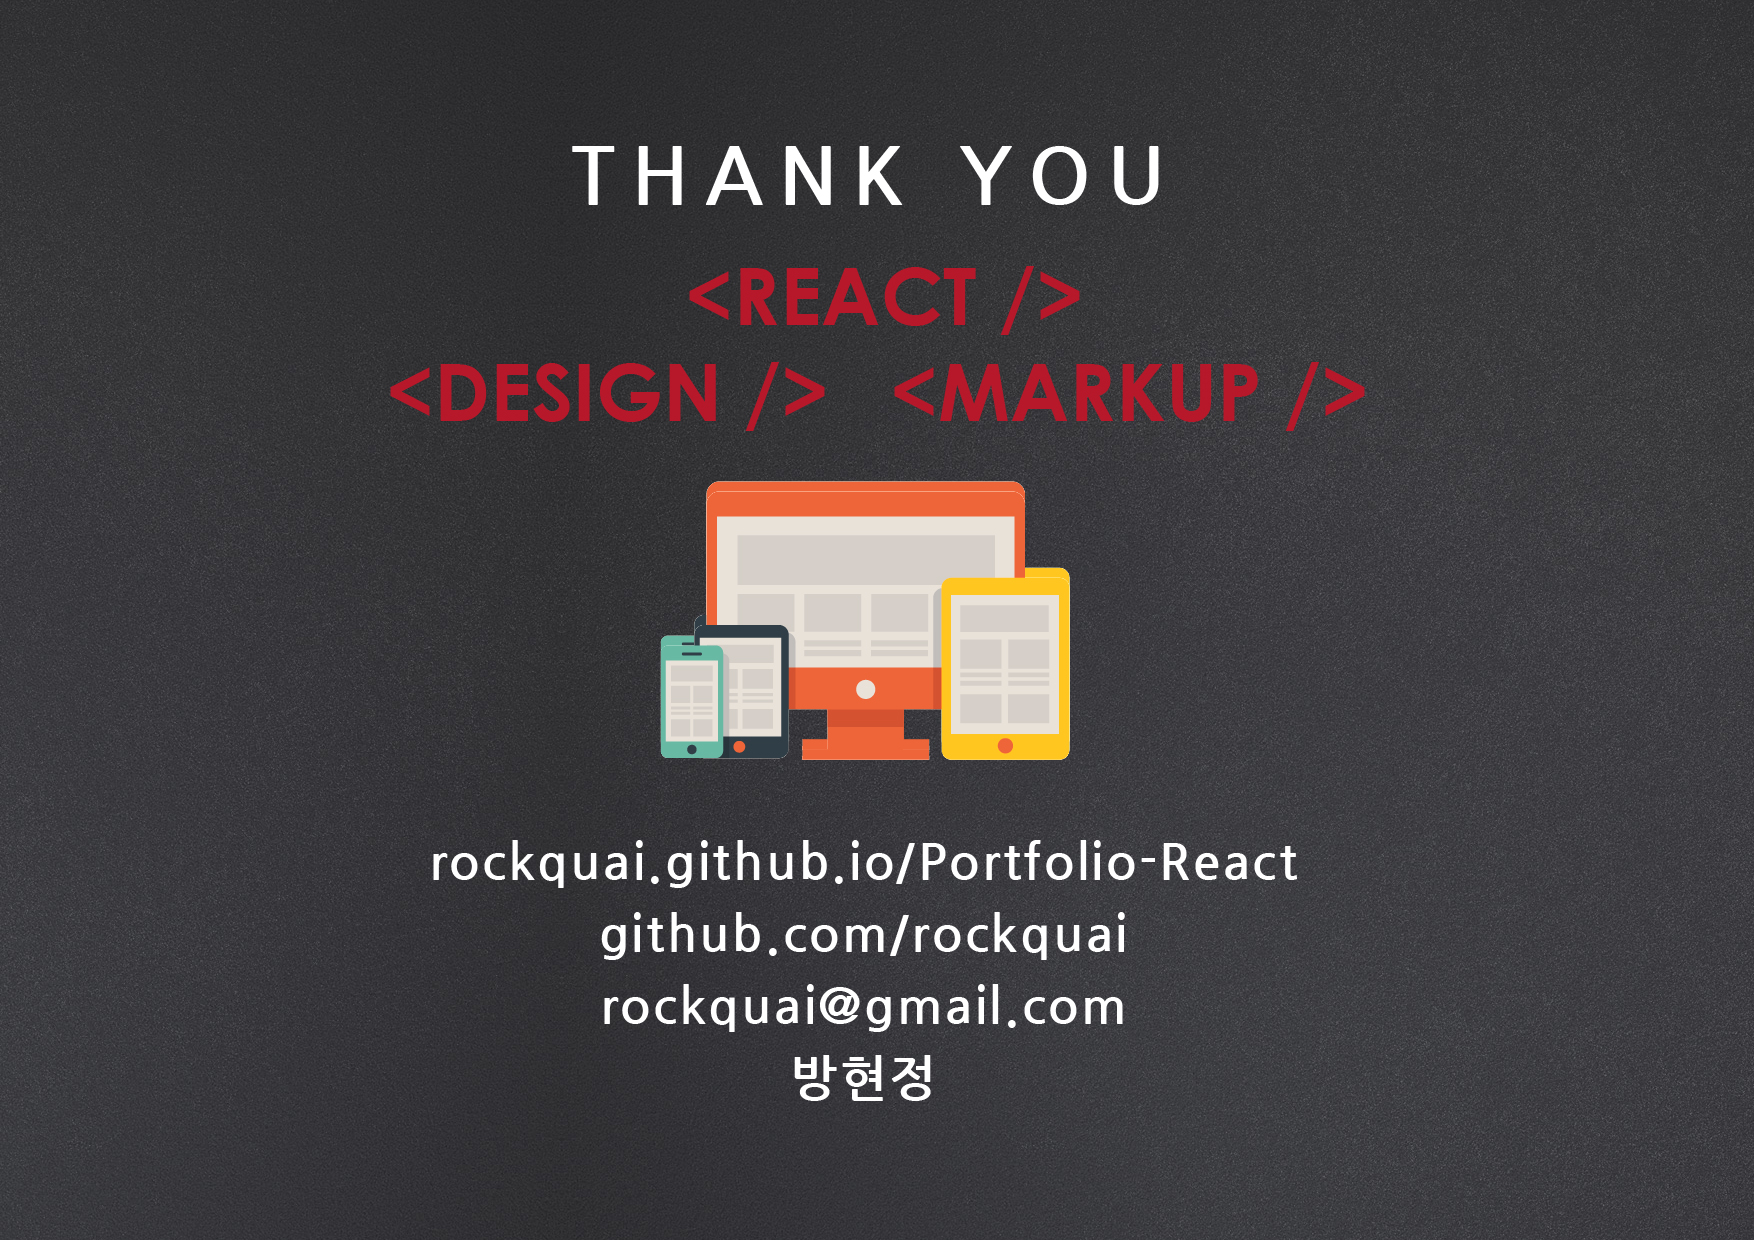
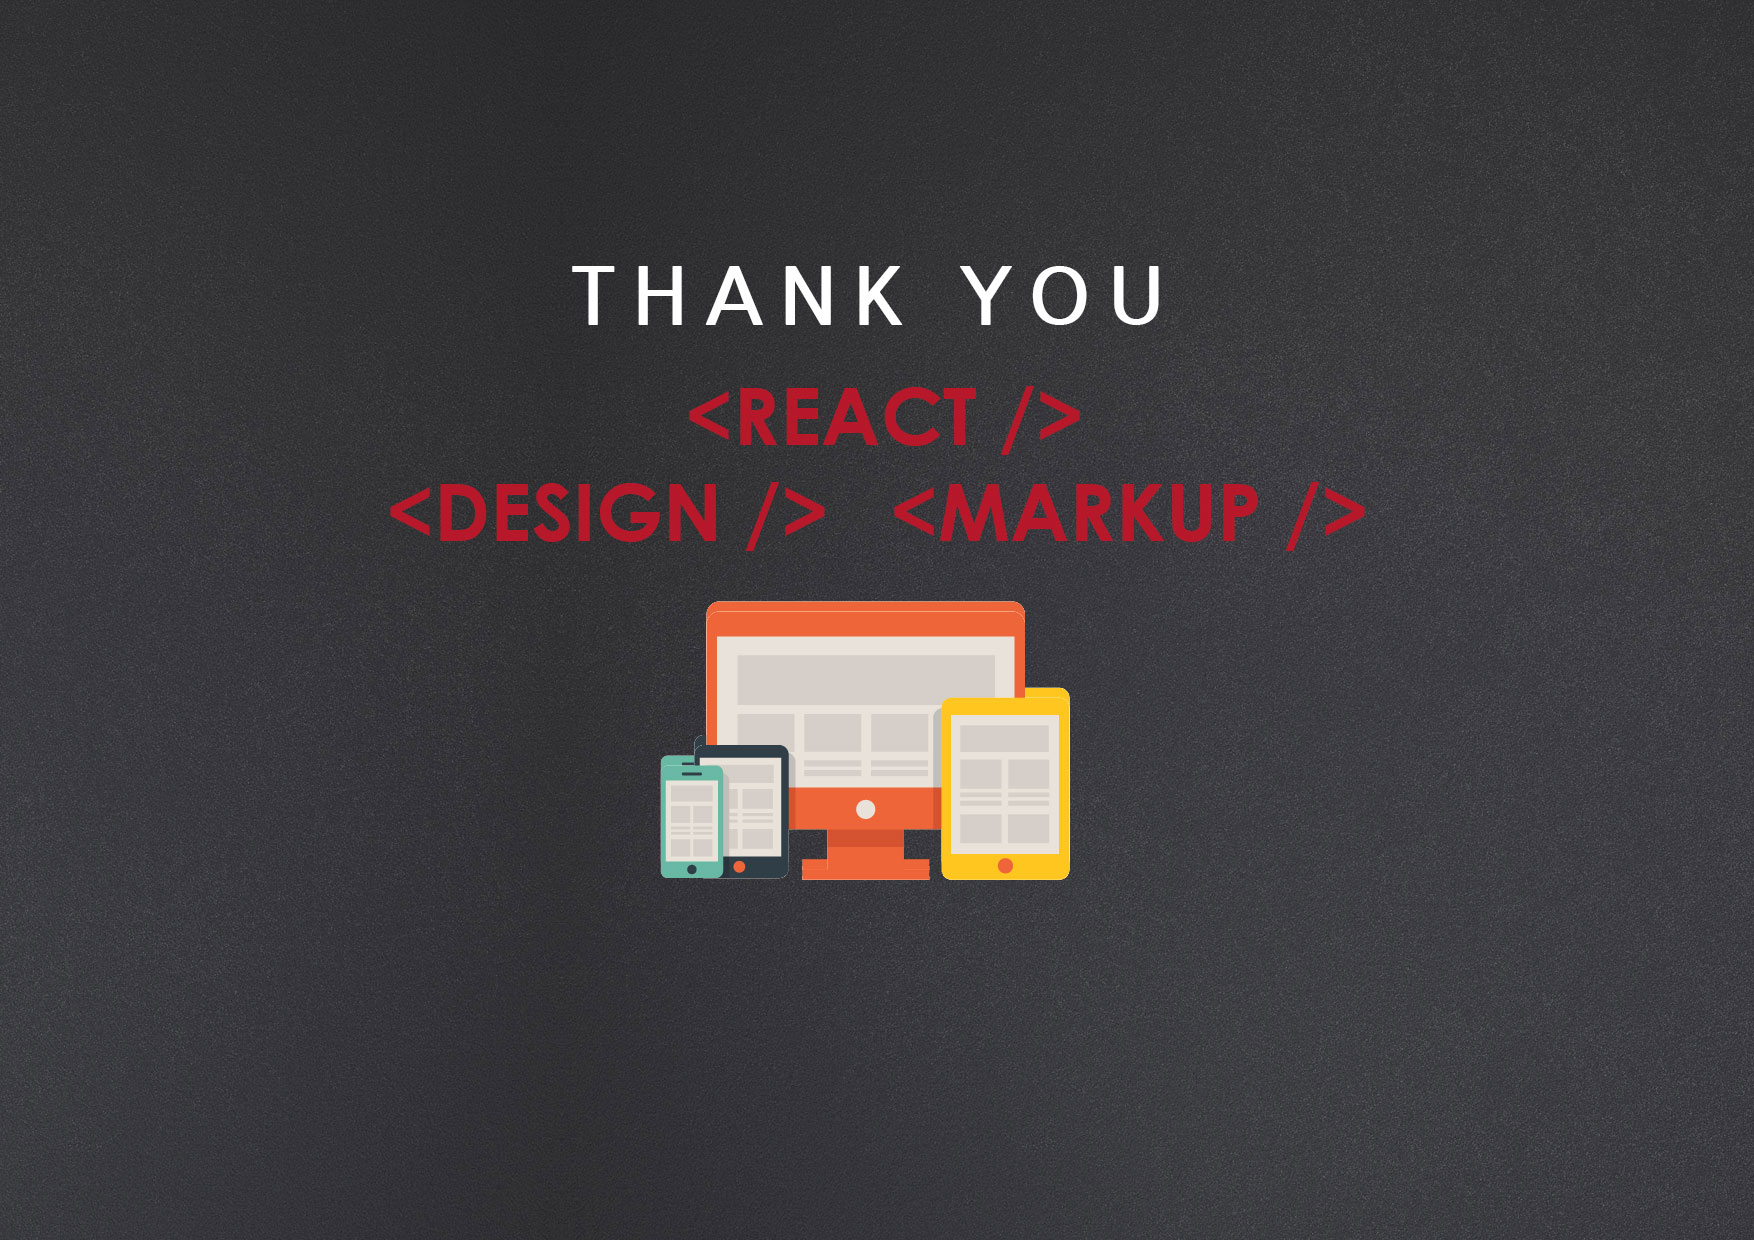
add. markup, sass

diff --git a/index.html b/index.html
@@ -21,83 +21,81 @@
 		</section>
 
 		<section>
+				<p>
+						방현정
+				</p>
 			<p>
-				<a target="_blank" href="https://rockquai.github.io/Portfolio-React">rockquai.github.io/Portfolio-React</a> 
+					'React + Sass + 반응형' 개인 포트폴리오
 			</p>
 			<p>
-				<a target="_blank" href="https://github.com/rockquai/Portfolio-React">github.com/rockquai/Portfolio-React</a> 
+				<a target="_blank" href="https://rockquai.github.io/Portfolio-React">rockquai.github.io/Portfolio-React</a>
+			</p>
+			<p>
+				<a target="_blank" href="https://github.com/rockquai/Portfolio-React">github.com/rockquai/Portfolio-React</a>
 			</p>
 			<!-- <p>
-				<a target="_blank" href="https://github.com/rockquai">github.com/rockquai</a> 
+				<a target="_blank" href="https://github.com/rockquai">github.com/rockquai</a>
 			</p> -->
 		</section>
 
 		<section>
-				<img src="./img/01-Introduce.jpg" alt="">
+				<img src="./img/01-Specification.jpg" alt="">
 		</section>
 
 		<section>
-				<img src="./img/02-Markup-01.jpg" alt="">
+				<img src="./img/02-Skills.jpg" alt="">
 		</section>
 
 		<section>
-				<img src="./img/03-Markup-02.jpg" alt="">
+				<img src="./img/03-Markup-01.jpg" alt="">
 		</section>
 
 		<section>
-				<img src="./img/04-Sass-01.jpg" alt="">
+				<img src="./img/04-Markup-02.jpg" alt="">
 		</section>
 
 		<section>
-				<img src="./img/05-Grid-index.jpg" alt="">
+				<img src="./img/05-Sass-01.jpg" alt="">
 		</section>
 
 		<section>
-				<img src="./img/06-Grid-viewpage.jpg" alt="">
+				<img src="./img/06-Sass-02.jpg" alt="">
 		</section>
 
 		<section>
-				<img src="./img/07-UI-01.jpg" alt="">
+				<img src="./img/07-RWD.jpg" alt="">
 		</section>
 
 		<section>
-				<img src="./img/08-UI-02.jpg" alt="">
+				<img src="./img/08-Grid-index.jpg" alt="">
 		</section>
 
 		<section>
-				<img src="./img/09-RWD.jpg" alt="">
+				<img src="./img/09-Grid-viewpage.jpg" alt="">
 		</section>
 
 		<section>
-				<img src="./img/10-Mockup-3D-all.jpg" alt="">
+				<img src="./img/10-React-01.jpg" alt="">
 		</section>
 
 		<section>
-				<img src="./img/11-React-code-00.jpg" alt="">
+				<img src="./img/11-React-02.jpg" alt="">
 		</section>
 
 		<section>
-				<img src="./img/12-React-code-01.jpg" alt="">
-		</section>
-
-		<section>
-			<img src="./img/13-React-code-02.jpg" alt="">
-		</section>
-
-		<section>
-				<img src="./img/14-React-code-03.jpg" alt="">
+				<img src="./img/12-React-03.jpg" alt="">
 		</section>
 
 		<section>
 			<p>방현정</p>
 			<p>
-				<a target="_blank" href="https://rockquai.github.io/Portfolio-React">rockquai.github.io/Portfolio-React</a> 
+				<a target="_blank" href="https://rockquai.github.io/Portfolio-React">rockquai.github.io/Portfolio-React</a>
 			</p>
 			<p>
-				<a target="_blank" href="https://github.com/rockquai">github.com/rockquai</a> 
+				<a target="_blank" href="https://github.com/rockquai">github.com/rockquai</a>
 			</p>
 			<p>
-				<a href="mailto:rockquai@gmail.com">rockquai@gmail.com</a> 
+				<a href="mailto:rockquai@gmail.com">rockquai@gmail.com</a>
 			</p>
 		</section>
 
